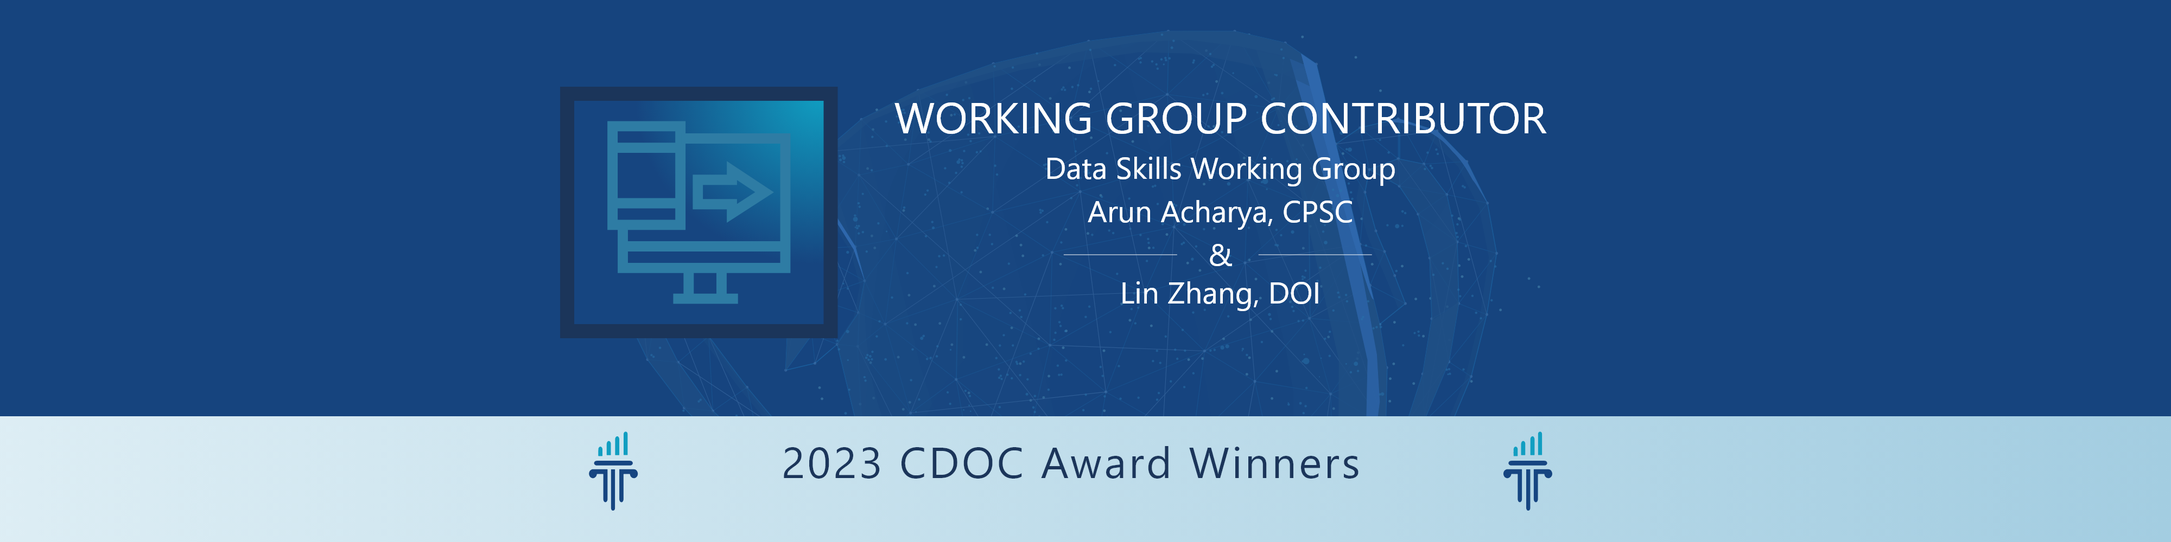
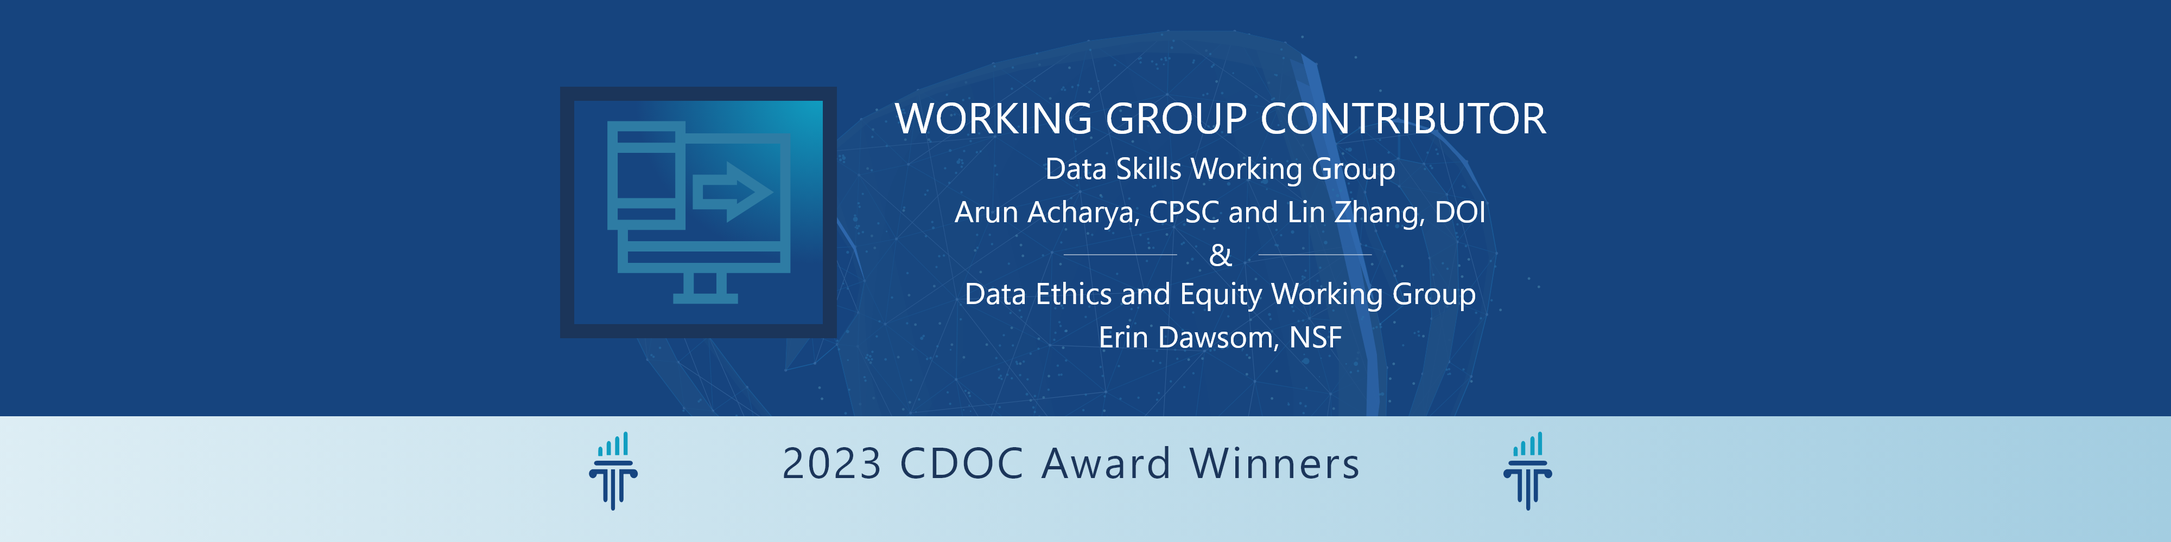
new image for working group and content change

Changed region(s): [[0.4375, 0.372, 0.6875, 0.434], [0.5, 0.589, 0.625, 0.651], [0.4375, 0.527, 0.6875, 0.558]]

diff --git a/_pages/awards-program.md b/_pages/awards-program.md
@@ -23,7 +23,7 @@ permalink: /awards-program/
             <section class="carousel-screen usa-graphic-list padding-y-4 awards-abstract-background5" role="img" aria-label="Distinguished Achievement in Federal Data Katherine Tom (FRS) & Sharon Boivin, Layne Morrison, and Soumya Sathya (Education)">
             </section>
 
-            <section class="carousel-screen usa-graphic-list padding-y-4 awards-abstract-background6" role="img" aria-label="Working Group Contributor Data Skills Working Group Arun Acharya, CPSC and Lin Zhang, DOI">
+            <section class="carousel-screen usa-graphic-list padding-y-4 awards-abstract-background6" role="img" aria-label="Working Group Contributor Data Skills Working Group Arun Acharya, CPSC and Lin Zhang, DOI & Data Ethics and Equity Working Group Erin Dawsom, NSF">
             </section>
 
             <section class="carousel-screen usa-graphic-list padding-y-4 awards-abstract-background7" role="img" aria-label="Working Group Contributor Data Sharing Working Group Monique Eleby, Census & Data Inventory Working Group Brian Rickenbach, State">
@@ -38,7 +38,7 @@ permalink: /awards-program/
                 <div class="circle" aria-label="slide 3 Team of the Year Operation Welcome Nica (DOS)" tabindex=0></div>
                 <div class="circle" aria-label="slide 4 Data Champion of the Year John Stevens (FRS) & Andrea Palm (HHS)" tabindex=0></div>
                 <div class="circle" aria-label="slide 5 Distinguished Achievement in Federal Data Katherine Tom (FRS) & Sharon Boivin, Layne Morrison, and Soumya Sathya (Education)" tabindex=0></div>
-                <div class="circle" aria-label="slide 6 Working Group Contributor Data Skills Working Group Arun Acharya, CPSC and Lin Zhang, DOI" tabindex=0></div>
+                <div class="circle" aria-label="slide 6 Working Group Contributor Data Skills Working Group Arun Acharya, CPSC and Lin Zhang, DOI & Data Ethics and Equity Working Group Erin Dawsom, NSF" tabindex=0></div>
                 <div class="circle" aria-label="slide 7 Working Group Contributor Data Sharing Working Group Monique Eleby, Census & Data Inventory Working Group Brian Rickenbach, State" tabindex=0></div>
                 <div class="circle" aria-label="slide 8 Committee Superior Contributor Large Agency Committee Dorothy Aronson, NSF & Small Agency Committee Katherine Tom, FRB and Geoffrey Nieboer, FDIC" tabindex=0></div>
             </section>
@@ -63,37 +63,35 @@ permalink: /awards-program/
          <section class="usa-accordion usa-accordion--bordered" aria-multiselectable="true">
                 <h2 class="usa-accordion__heading"><button class="usa-accordion__button bg-accent-cool-lighter" aria-expanded="false" aria-controls="m-a1"><img src="{{site.baseurl}}/assets/images/icons/ribbon-outline.svg" class="workinggroup__accordion-icon" alt="">2021 CDOC Award Winners</button></h2>
                 <div id="m-a1" class="usa-accordion__content">
-                    <p class="font-sans-md" style='text-align:center;'><strong><u>Distinguished Federal Data Innovator Award</u></strong></p>
-                    <p class="font-sans-md"><strong><em>Agency Reporting Modernizations Team, Federal Energy Regulation Commission:</em></strong></p>
-                    <p class="font-sans-md" style='text-indent:.5in;'>The FERC Agency Reporting Modernization Team led an initiative at FERC to modernize the reporting capability of the agency by moving away from its legacy Crystal Reports platform to the Microsoft Azure cloud platform and Power BI. FERC Agency Reporting (FAR) program provides staff with unprecedented access to data from 10 internal data assets by establishing interactive dashboards and supporting self-service analytics. FAR promotes broader use of FERC&rsquo;s internal data by program office staff, including business analysts and data scientists, and improves access to capabilities that best align with their needs.</p>
-                    <p class="font-sans-md"><strong><em>Rachel Wang and Jen Storm-Jenkins, Department of State:</em></strong></p>
-                    <p class="font-sans-md" style='text-indent:.5in;'>Rachel Wang leads data platform services in the Office of Management Strategy &amp; Solutions&apos; Center for Analytics (M/SS/CfA) and falls under the Department CDO. Jen Storm-Jenkins is CfA&apos;s Technology Director and falls under the Department&apos;s CIO in the Bureau for Information Resource Management (IRM). Rachel and Jen co-lead a CIO-CDO hybrid team and led the Department&apos;s transformation in Data and Technology Platform Services. Recognizing the increased demand for data ingestion, storage, science, and visualization technology services, Rachel and Jen led the effort to create a common architecture solution. The resultant platform called Data.State democratizes access to technology, data, and analytics and enables data-informed decision-making organizational units at State headquarters and Embassies, Missions, and Consulates across the globe.</p>
-                    <p class="font-sans-md" style='text-align:center;'><strong><u>Excellence in Data Governance</u></strong></p>
-                    <p class="font-sans-md"><strong><em>Stephen Lewis, Department of Transportation:</em></strong></p>
-                    <p class="font-sans-md" style='text-indent:.5in;'>As the federal lead for the National Address Database initiative (NAD) at the Department of Transportation (DOT), Mr. Lewis has embraced a distributed data governance model. The initiative is a true partnership effort, where local and tribal governments are recognized as the authoritative source for the address points that comprise the NAD. In most cases, the local and tribal data is rolled up to the state government level and then submitted to the NAD by state partners. To date, the NAD includes 38 state partners (including the District of Columbia and Puerto Rico), 30 of which have submitted data. In states with restricted data or no address programs, the NAD has 28 county and 2 tribal partners. Mr. Lewis works with each partner to establish update frequencies based on their processes and publishes a new release of the NAD every 3 months. The latest release contained 65.3 million records.</p>
-                    <p class="font-sans-md"><strong><em>Chris Haffer, Mark Leach, Ada Harris, and Kevin Malloy, Equal Employment Opportunity Commission:</em></strong></p>
-                    <p class="font-sans-md" style='text-indent:.5in;'>This nomination recognizes members of EEOC&apos;s District Demographic Dashboard [D3] Team for designing, developing, and deploying an interactive visualization dashboard for State, Local, and Tribal Affairs and District Field enforcement staff. The team also provided support and training with a User Guide, demonstrations, and Q&amp;A sessions with each stakeholder group. To the EEOC&apos;s knowledge, the launch of this dashboard marks the first time these stakeholder groups have been provided with self-service data and analytical tools, creating efficiencies in their work and Agency outreach efforts. The dashboard has broken down traditional institutional boundaries by establishing new partnerships between stakeholders. In addition, the innovative dashboard provides agency enforcement staff with new, additional analytical tools to combat systemic discrimination.</p>
-                    <p class="font-sans-md" style='text-align:center;'><strong><u>Team of the Year</u></strong></p>
-                    <p class="font-sans-md"><strong><em>Data Governance Division, Data Management Branch, Federal Energy Regulation Commission:</em></strong></p>
-                    <p class="font-sans-md" style='text-indent:.5in;'>The Data Governance Division&apos;s Data Management Branch (DMB) led the implementation and deployment of FERC&apos;s &quot;Athena&quot; Platform &ndash; an innovative data science platform hosted on Microsoft&apos;s Azure cloud services - in partnership with divisions across FERC&apos;s CIO Organization. The scope of this program is to deploy, enhance, and maintain a cloud-hosted, user friendly, data science platform which provides on-demand, self-service capabilities and tools for data analysts to identify, curate, process, analyze, visualize and share results and outputs from FERC datasets.</p>
-                    <p class="font-sans-md"><strong><em>Air Force Chief Data and Artificial Intelligence Office, Department of the Air Force:</em></strong></p>
-                    <p class="font-sans-md" style='text-indent:.5in;'>The Department of the Air Force&apos;s (DAF) &nbsp;Chief Data and Artificial Intelligence Office (CDAO) successfully demonstrated the ability to service the entire DAF enterprise from the headquarters level. Over the last fiscal year, the team developed robust policies that operationalize data down to the lowest level of the DAF. With a budget of less than $80M, the number of operational users the CDO enabled was approximately 20K (total cost per user $4,000) across two data platforms with the DAF and also Joint partners in OSD Advana and the Joint Artificial Intelligence Center. Due to the team&apos;s successes, the Under Secretary of the Air Force charged the office with a Data Investment Review to ensure the DAF remains operationally relevant. The team increased its total business capture in the DAF program by over 600%. Furthermore, the team&apos;s proven capabilities led the DAF personnel management community, AF/A1, to partner with their data platforms in order to modernize their personnel management data systems; the total value of the 33 month sprint between the AF/A1 and CDO is $1.6M.</p>
-                    <p class="font-sans-md" style='text-align:center;'><strong><u>Data Champion of the Year</u></strong></p>
-                    <p class="font-sans-md"><strong><em>Kimberly Lewis and Yolanda Cooper, Federal Energy Regulation Commission:</em></strong></p>
-                    <p class="font-sans-md" style='text-indent:.5in;'>In close partnership, FERC&apos;s Data Governance Division and FERC&apos;s Acquisition Services Division successfully established and awarded FERC&apos;s first Data Support Services multiple award Blanket Purchase Agreement to procure timely, high-quality, and cost-effective support for Data Support Services at FERC. The strategic acquisition planning, guidance, and leadership from FERC&apos;s Contracting Officers allowed for the seamless award of this crucial contracting vehicle. It ensured that FERC has the necessary resources to successfully expand the data program as it matures to meet the requirements of the agency, Evidence Act, Federal Data Strategy, and the public.</p>
-                    <p class="font-sans-md"><strong><em>Brian McKeon, Department of State:</em></strong></p>
-                    <p class="font-sans-md" style='text-indent:.5in;'>Since joining the Department of State in 2021, Deputy Secretary McKeon has been a tireless advocate of all things data. From signing the Department&apos;s first-ever Enterprise Data Strategy and kicking off the first two Data Strategy Campaigns, Deputy Secretary McKeon has continued to push the Department to modernize its processes and use data to inform and drive its decision-making. Every six months, he leads a group of principals across the Department in deliberations to choose the next set of Data Campaigns&mdash;a process that helps the Department surge data science and policy resources around the Department&apos;s&mdash;and the world&apos;s&mdash;most pressing issues. Additionally, he has worked alongside other data leaders and practitioners to support data policy updates in the Department. These efforts to improve data transparency, data management, and data analytics platforms have helped put the Department on the leading edge of the federal data landscape. Furthermore, Deputy Secretary McKeon&apos;s advocacy has helped Department stakeholders better harness data to solve problems around crisis management, diversity and inclusion, and cybersecurity.</p>
-                    <p class="font-sans-md" style='text-align:center;'><strong><u>Distinguished Achievement in Federal Data</u></strong></p>
-                    <p class="font-sans-md"><strong><em>Wildland Fire Fuels Team, Department of Interior:</em></strong></p>
-                    <p class="font-sans-md" style='text-indent:.5in;'>The interagency Wildland Fire Fuels Data Management team utilized groundbreaking knowledge graph tools to facilitate efficient interagency data governance that promotes understanding and coordination between partners. The Fuels Knowledge Graph Project focused on glossaries and key reference data to support the coordination of hazardous fuel reduction activities. The flexibility of the knowledge graph allows all partners to define and describe their vocabularies and data, including business rules for collection and use and the relationships between data from multiple sources. The use of common reference data sets enables more consistency across partners. The team coordinated with the states of CA, UT, NV, and TX to ensure non-federal representation. They also identified source data from USGS, OMB, OPM, and Treasury to promote the value of authoritative data sources and linked open data principles. The knowledge graph is transforming data governance in a complex, interagency environment.</p>
-                    <p class="font-sans-md"><strong><em>Chris Haffer, Equal Employment Opportunity Commission:</em></strong></p>
-                    <p class="font-sans-md" style='text-indent:.5in;'>In November 2017, Chris Haffer was appointed the EEOC&apos;s first Chief Data Officer. His initial direction was to modernize the agency&apos;s data processing functions and build a 21st-century data and analytics organization while utilizing state-of-the-art data science tools and techniques, and efficiently leveraging data to reduce burden and costs while protecting individual and employer privacy and promoting program transparency. In FY2022, this transformation to a 21st-century data and analytics organization was solidified with the launch of state-of-the-art products and services, from the EEOC Data and Analytics Modernization Program portfolio. These products support data-driven decision-making by clients and customers inside and outside government, adopting industry best practices and hiring skilled data scientists.</p>
+                    <p class="font-sans-md" style='text-align:center;'><strong><u>Distinguished Federal Data Innovator Award</u></strong></p>                   
+                    <p class="font-sans-md"><strong><em>Shawn Tufts, Jay Gregory, Seth Hasty, Eli Velazquez , Department of Transportation (CFO):</em></strong></p>
+                    <p class="font-sans-md" style='text-indent:.5in;'>The Federal Aviation Administration's UAS Operations Team, AJW-124, is leveraging the remote sensing capabilities of Small UAS (sUAS) technologies to augment maintenance operations, infrastructure inspections, engineering assessments, troubleshooting coverage and line of sight problems, and siting of new towers in the National Airspace System (NAS). The team was able to demonstrate the use of remote sensing capabilities of small drones in tandem with Geographic Information Systems (GIS) to deliver a new ecosystem of capabilities to drive organizational business intelligence. The visualization of data products enabled maintenance and engineering assessments on NAS infrastructure to be completed safer (no physical climbs), more efficient (less time and personnel), and more thorough (high resolution imagery of places easily missed with the naked eye).</p>
+                    <p class="font-sans-md" style='text-align:center;'><strong><u>Excellence in Data Governance</u></strong></p>                
+                    <p class="font-sans-md"><strong><em>Ms. Erycka Reid , Department of the Air Force (CFO):</em></strong></p>
+                    <p class="font-sans-md" style='text-indent:.5in;'>Ms. Erycka Reid is an exemplary leader in data governance, she led a 13-person team providing Data and AI Strategic Services to a 700K+ member enterprise. Additionally, she successfully prepared the Data Battlespace with strategy, governance, and policy that directly increased the Department of the Air Force Data and AI capability to drive Enterprise Domain Awareness. Ms. Reid's proactive approach enabled her team to develop quantifiable measures for success and metrics for accountability for delivering ambitious results across the enterprise. In addition, her efforts established the DAF Data and Artificial Intelligence Council, which provides oversight and resourcing of the DAF DSE and DAF Data Fabric production to deliver Enterprise Domain Awareness.</p>
+                    <p class="font-sans-md"><strong><em>Nicholas Buggs and Joshua Spicka (Team) , Nuclear Regulatory Commission (CFO):</em></strong></p>
+                    <p class="font-sans-md" style='text-indent:.5in;'>In 2022, Nicholas Buggs and Joshua Spicka led an effort to establish a Data Stewardship community across the agency. This included the creation of the Data Steward role, the identification of potential Data stewards, the validation of Data Stewards in all offices and regions, and the training of Data Stewards with respect to their responsibilities in this role. This effort has established a platform through which data governance best practices and standards can be communicated and agency wide collaboration around data can occur. The role of every office and region in managing data as a strategic asset has now been reinforced and the agency has taken a significant step forward in its efforts to unite around data.</p>
+                    <p class="font-sans-md" style='text-align:center;'><strong><u>Team of the Year</u></strong></p>                  
+                    <p class="font-sans-md"><strong><em>Operation Welcome Nica, Department of State (CFO):</em></strong></p>
+                    <p class="font-sans-md" style='text-indent:.5in;'>"Operation Welcome Nica" successfully brought together multiple Federal, State, and civil society partners to support the arrival of the 222 Nicaraguan political prisoner parolees in safety and dignity. U.S. The data and analytics team at State lead by Tressa Finerty, S/ES Deputy Executive Secretary, was considered a central component to the success of this operation and was one of the first offices called upon to support the crisis operation. The data collected by this State-led operation was shared and used by interagency partners including the White House NSC, the Office of the Vice President, DHS, HHS, parolee destination states, and partner NGOs. By placing data at the core of its operations and anticipating the need to effectively collect, manage, and report data between February 9 and February 14, 2022, the broader “Operation Welcome Nica” resulted in a safe and dignified arrival in the U.S. of 222 political prisoners from Nicaragua.</p>
+                    <p class="font-sans-md" style='text-align:center;'><strong><u>Data Champion of the Year</u></strong></p>                    
+                    <p class="font-sans-md"><strong><em>John Stevens, Federal Reserve System (Non-CFO):</em></strong></p>
+                    <p class="font-sans-md" style='text-indent:.5in;'>John Stevens, the senior associate director at the Research & Statistics division of the Federal Reserve Board of Governors (the Board), has been a great data champion at the Board. John became the first vice chair of the Board Data Council, a data governance body that consists of data leaders and practitioners from all Board’s divisions. He and the CDO, along with the support of the Board Data Council, developed the first Board Data Strategy at the enterprise level. He was one of the critical initiators to establish a new program to improve the Board data download program to better share the Board's published data and engage with the Broader public data users.</p>
+                    <p class="font-sans-md"><strong><em>Andrea Palm , HHS (CFO):</em></strong></p>
+                    <p class="font-sans-md" style='text-indent:.5in;'>Deputy Secretary Andrea Palm has demonstrated an exceptional commitment to increasing data capacity at HHS and applying data for better, faster decision-making. In mid-2022, Deputy Secretary Palm convened a 10-person cross-agency team - including leaders from the Immediate Office of the Secretary and Office of the Chief Information Officer - to develop and implement a data strategy for the Department. She also ensured that a diverse group of over 150 stakeholders were engaged, including program and data leaders at each of HHS' operating divisions; representatives from private industry, nonprofit organizations, academia, and state and local governments; as well as experts in data policy and systems. The resulting vision, priorities, and initiatives enjoy widespread support within the organization at every level.</p>
+                    <p class="font-sans-md" style='text-align:center;'><strong><u>Distinguished Achievement in Federal Data</u></strong></p>                   
+                    <p class="font-sans-md"><strong><em>Katherine Tom, Federal Reserve System (Non-CFO):</em></strong></p>
+                    <p class="font-sans-md" style='text-indent:.5in;'>Katherine Tom has served as the Federal Reserve Board of Governors (FRB) Chief Data Officer for two years. She developed critical objectives informed by Federal Data initiatives in transforming Office of the Chief Data Officer and promoting data governance and data management best practices. She built great collaborative relationships with the Federal Reserve System data management community and played critical leadership roles on several enterprise data initiatives through which she leveraged strategic vision and strengths in translating the data strategic vision into concrete operating plans.</p>
+                    <p class="font-sans-md"><strong><em>Sharon Boivin, Layne Morrison, Soumya Sathya , Department of Education (CFO):</em></strong></p>
+                    <p class="font-sans-md" style='text-indent:.5in;'>The Department of Education (ED) prioritized Goal 2: Building Human Capacity to Leverage Data in its inaugural Data Strategy and has since been recognized as a pioneer, promoting an exceptional data culture and community while sharing its innovations through the CDOC. This team from the ED Office of the Chief Data Officer (OCDO) led the work on Goal 2 throughout 2022 and, through their efforts, dramatically advanced data skills development to fundamentally empower ED employees, advancing strategic data use across the agency. Some of their 2022 accomplishments were Deployment of the ED Data Competency Framework with four competencies (Data Program, Data Operations, Data Analysis, and Advancing the Use of Data) and 16 sub competencies at five proficiency levels. As well as the launch of the first ED Data Science Training Program, graduating 28 new data scientists from 11 ED offices who will apply their skills within their areas of domain expertise.</p>
                     <p class="font-sans-md" style='text-align:center;'><strong><u>Working Group and Committee Superior Contributors</u></strong></p>
-                    <p class="font-sans-md"><strong>Small Agency Committee:&nbsp;</strong>Kirsten Dalboe, Federal Energy Regulation Commission</p>
-                    <p class="font-sans-md"><strong>Large Agency Committee:&nbsp;</strong>Tom Sasala, Department of Defense</p>
-                    <p class="font-sans-md"><strong>Data Sharing Working Group:&nbsp;</strong>Arun Acharya, Consumer Product Safety Division</p>
-                    <p class="font-sans-md"><strong>Data Inventory Working Group:&nbsp;</strong>Robbin Rappaport, Internal Revenue Service</p>
-                    <p class="font-sans-md"><strong>Data Skills and Workforce Development Working Group:&nbsp;</strong>Erik Price, Office of the Director of National Intelligence; Layne Morrison, Department of Education; Robin Wagner, National Institute of Health</p>
+                    <p class="font-sans-md"><strong>Small Agency Committee:&nbsp;</strong>Katherine Tom, FRB and Geoffrey Nieboer, FDIC</p>
+                    <p class="font-sans-md"><strong>Large Agency Committee:&nbsp;</strong>Dorothy Aronson, NSF</p>
+                    <p class="font-sans-md"><strong>Data Sharing Working Group:&nbsp;</strong>Monique Eleby, Census</p>
+                    <p class="font-sans-md"><strong>Data Inventory Working Group:&nbsp;</strong>Brian Rickenbach, State</p>
+                    <p class="font-sans-md"><strong>Data Skills Working Group:&nbsp;</strong>Arun Acharya, CPSC and Lin Zhang, DOI</p>
+                    <p class="font-sans-md"><strong>Data Ethics and Equity Working Group:&nbsp;</strong>Erin Dawsom, NSF</p>
+                
                 </div> 
                 <h2 class="usa-accordion__heading"><button class="usa-accordion__button bg-accent-cool-lighter" aria-expanded="false" aria-controls="m-a2"><img src="{{site.baseurl}}/assets/images/icons/ribbon-outline.svg" class="workinggroup__accordion-icon" alt="">Award Categories</button></h2>
                 <div id="m-a2" class="usa-accordion__content">
@@ -104,7 +102,7 @@ permalink: /awards-program/
                         <strong><span style="color:#0070C0;">Federal Chief Data Officer Council Distinguished Federal Data Innovator Award</span></strong> &ndash; For the mavericks (individuals or teams) who develop creative and “outside the box” ideas, help design them, and see them through to execution, including interagency collaborations, creative uses of data, interactive analytics products, etc.
                     </p>
                     <p class="font-sans-md">
-                        <strong><span style="color:#0070C0;">Federal Chief Data Officer Council Data Champion of the Year</span></strong> &ndash; For Federal employees, outside of the Agency Data office, who make significant contributions to expanding data activities for their programs or agencies. 
+                        <strong><span style="color:#0070C0;">Federal Chief Data Officer Council Data Champion of the Year</span></strong> &ndash; For Federal employees, outside of the Agency Data office, who make significant contributions to expanding data activities for their programs or agencies.
                     </p>
                     <p class="font-sans-md">
                         <strong><span style="color:#0070C0;">Federal Chief Data Officer Council Excellence in Data Governance</span></strong> &ndash; Open to personnel or teams who champion policies, processes, or procedures to enhance data governance throughout the Federal government or between state, local, and tribal governments.
